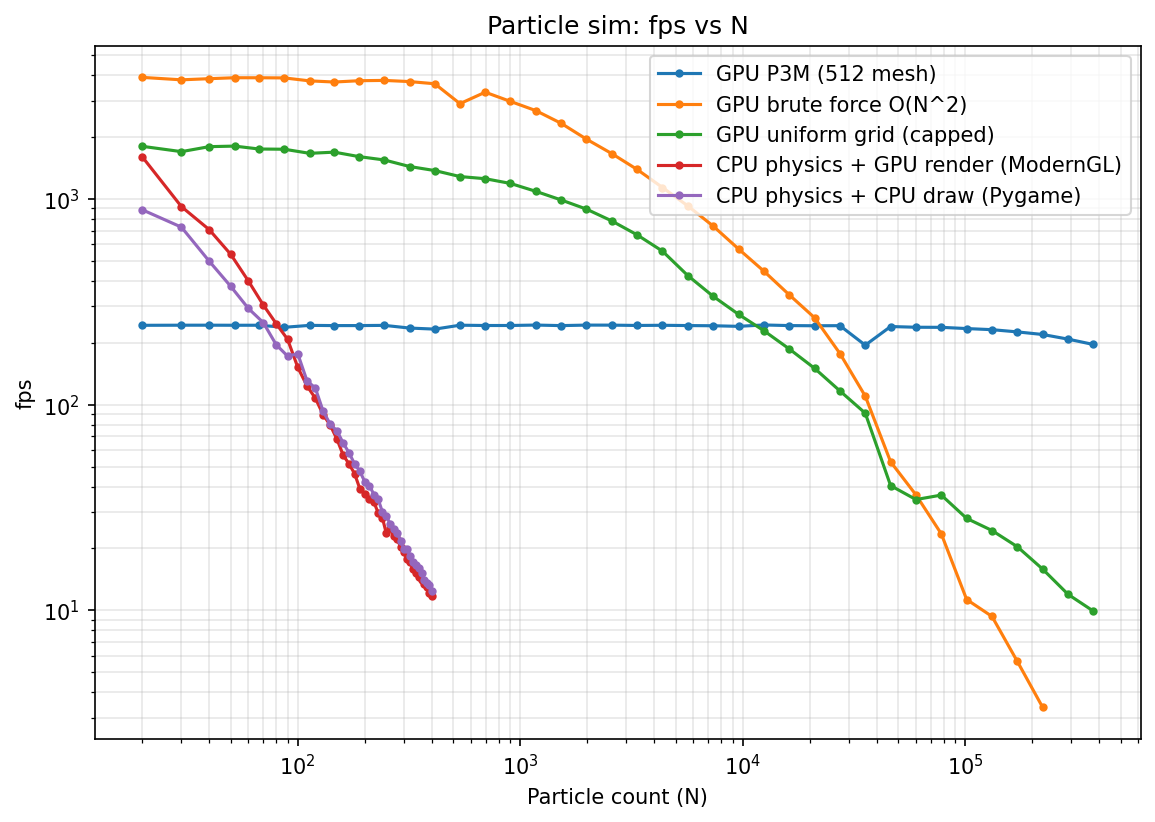
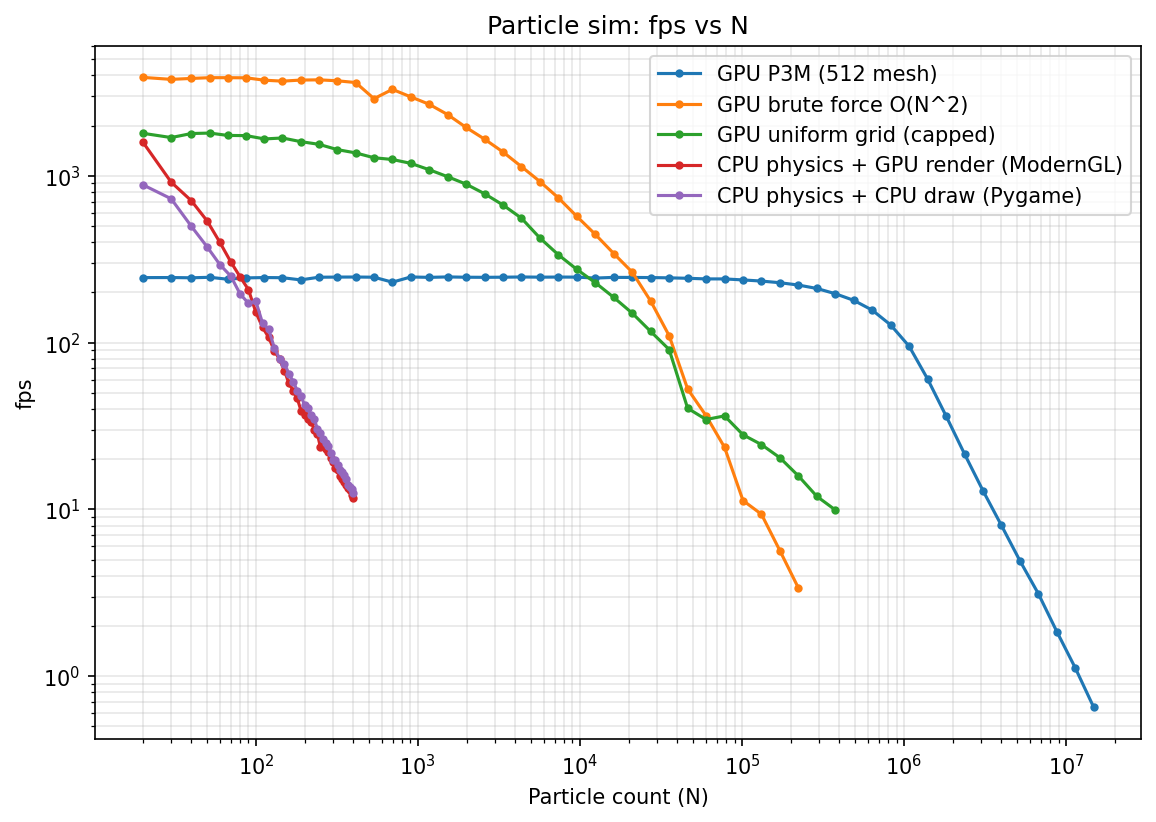
Extend P3M benchmark sweep to 14.8M particles
Buffers now size from the config end_n instead of a 1M cap, and the bench csv
is written after every sample point so a driver reset does not lose the run.
Adds --budget frame-budget lines to plot_bench.

diff --git a/src/Particles_Test_GPU_p3m.py b/src/Particles_Test_GPU_p3m.py
@@ -115,17 +115,24 @@ def main():
           f"P3M mesh={args.mesh_res}x{args.mesh_res}")
 
     n0 = 2 * N_PER_TYPE
-    capacity = n0 + EXTRA_CAPACITY
+    # A sweep must be able to reach end_n, so size the buffers from the config.
+    capacity = int(cfg["end_n"]) + 1 if bench else n0 + EXTRA_CAPACITY
     active_n = n0
     rng = np.random.default_rng(cfg["seed"] if bench else 1)
-    particles_cpu = np.zeros(capacity, dtype=PARTICLE_DTYPE)
-    particles_cpu["pos"][:n0] = rng.uniform(-0.3, 0.3, (n0, 2)).astype(np.float32)
-    particles_cpu["vel"][:n0] = rng.uniform(-0.1, 0.1, (n0, 2)).astype(np.float32)
-    particles_cpu["type"][:N_PER_TYPE] = 0
-    particles_cpu["type"][N_PER_TYPE:n0] = 1
+    seed_cpu = np.zeros(n0, dtype=PARTICLE_DTYPE)
+    seed_cpu["pos"] = rng.uniform(-0.3, 0.3, (n0, 2)).astype(np.float32)
+    seed_cpu["vel"] = rng.uniform(-0.1, 0.1, (n0, 2)).astype(np.float32)
+    seed_cpu["type"][:N_PER_TYPE] = 0
+    seed_cpu["type"][N_PER_TYPE:] = 1
 
-    particles_current = ctx.buffer(particles_cpu.tobytes())
-    particles_next = ctx.buffer(reserve=particles_cpu.nbytes)
+    # Reserve then partial-write, so a 20M sweep does not build a
+    # multi-hundred-MB throwaway CPU copy just to seed 4000 particles.
+    buffer_bytes = capacity * PARTICLE_DTYPE.itemsize
+    print(f"[GPU] capacity={capacity:,} particles "
+          f"({2 * buffer_bytes / 2**20:.0f} MB of ping-pong buffers)")
+    particles_current = ctx.buffer(reserve=buffer_bytes)
+    particles_current.write(seed_cpu.tobytes())
+    particles_next = ctx.buffer(reserve=buffer_bytes)
     solver = P3MForceSolver(
         ctx, capacity, args.mesh_res, WORLD_BOUNDS, SOFTENING,
         FORCE_FALLOFF, SAME_REPEL, OTHER_ATTRACT,
@@ -149,6 +156,7 @@ def main():
         active_n += count
 
     bench_rows = []
+    bench_out = args.out or str(cfg.get("out_csv", "gpu_p3m.csv"))
     bench_next_t = None
     bench_skip = 0
     acc_compute = acc_frame = 0.0
@@ -217,6 +225,9 @@ def main():
             })
             print(f"[BENCH][P3M] N={active_n} compute={mean_compute:.3f} ms "
                   f"frame={mean_frame:.3f} ms ({fps:.1f} FPS) over {acc_frames} frames")
+            # Rewrite after every point: at high N a frame can exceed the
+            # Windows TDR watchdog and the driver kills us mid-sweep.
+            write_bench_csv(bench_out, bench_rows)
             if mean_frame > float(cfg["abort_ms"]) or active_n >= int(cfg["end_n"]):
                 break
             previous = active_n
@@ -233,9 +244,8 @@ def main():
             last_print = now
 
     if bench:
-        output = args.out or str(cfg.get("out_csv", "gpu_p3m.csv"))
-        write_bench_csv(output, bench_rows)
-        print(f"[BENCH] wrote {output} ({len(bench_rows)} rows)")
+        write_bench_csv(bench_out, bench_rows)
+        print(f"[BENCH] wrote {bench_out} ({len(bench_rows)} rows)")
     glfw.destroy_window(window)
     glfw.terminate()
 

diff --git a/src/plot_bench.py b/src/plot_bench.py
@@ -32,6 +32,8 @@ def main():
     ap.add_argument("--logx", action="store_true", help="Log-scale the x axis")
     ap.add_argument("--logy", action="store_true", help="Log-scale the y axis")
     ap.add_argument("--out", default="", help="Save a png here instead of opening a window")
+    ap.add_argument("--budget", action="store_true",
+                    help="Draw 60/30 FPS frame-budget lines (ms y-axes only)")
     args = ap.parse_args()
 
     # Saving a graph should not require Tk or a visible desktop session.
@@ -55,6 +57,12 @@ def main():
 
     if not plotted:
         raise SystemExit(f"no csv had a '{args.y}' column")
+
+    if args.budget and args.y.endswith("_ms"):
+        for ms, name in ((1000 / 60, "60 FPS budget"), (1000 / 30, "30 FPS budget")):
+            plt.axhline(ms, color="gray", linestyle="--", linewidth=1, alpha=0.7)
+            plt.annotate(name, (0.01, ms), xycoords=("axes fraction", "data"),
+                         va="bottom", fontsize=8, color="gray")
 
     if args.logx:
         plt.xscale("log")

diff --git a/premade/Particles_6.0_3DWaves.py b/premade/Particles_6.0_3DWaves.py
@@ -327,7 +327,7 @@ def main():
         particles_cpu["vel"][i]  = rng.uniform(-0.1, 0.1, 2).astype(np.float32)
         particles_cpu["type"][i] = 1
 
-    # SSBO: particles (binding=0) — allocate full capacity
+    # SSBO: particles (binding=0) - allocate full capacity
     ssbo_particles = ctx.buffer(particles_cpu.tobytes())
     ssbo_particles.bind_to_storage_buffer(binding=0)
 
@@ -337,7 +337,7 @@ def main():
     ssbo_head = ctx.buffer(grid_head.tobytes())
     ssbo_head.bind_to_storage_buffer(binding=1)
 
-    # SSBO: next pointers (binding=2) — allocate full capacity (IMPORTANT)
+    # SSBO: next pointers (binding=2) - allocate full capacity (IMPORTANT)
     next_idx_cpu = np.full(CAPACITY, -1, dtype=np.int32)
     ssbo_next = ctx.buffer(next_idx_cpu.tobytes())
     ssbo_next.bind_to_storage_buffer(binding=2)

diff --git a/src/Particles_Test_GPU_grid.py b/src/Particles_Test_GPU_grid.py
@@ -360,7 +360,7 @@ def main():
         particles_cpu["vel"][i]  = rng.uniform(-0.1, 0.1, 2).astype(np.float32)
         particles_cpu["type"][i] = 1
 
-    # SSBO: particles (binding=0) — allocate full capacity
+    # SSBO: particles (binding=0) - allocate full capacity
     ssbo_particles = ctx.buffer(particles_cpu.tobytes())
     ssbo_particles.bind_to_storage_buffer(binding=0)
 
@@ -370,7 +370,7 @@ def main():
     ssbo_head = ctx.buffer(grid_head.tobytes())
     ssbo_head.bind_to_storage_buffer(binding=1)
 
-    # SSBO: next pointers (binding=2) — allocate full capacity
+    # SSBO: next pointers (binding=2) - allocate full capacity
     next_idx_cpu = np.full(CAPACITY, -1, dtype=np.int32)
     ssbo_next = ctx.buffer(next_idx_cpu.tobytes())
     ssbo_next.bind_to_storage_buffer(binding=2)

diff --git a/src/Particles_in_pygame.py b/src/Particles_in_pygame.py
@@ -260,7 +260,7 @@ def soft_circle_surface(radius, color):
             if r2 > radius*radius:
                 continue
             r = math.sqrt(r2) / max(1e-6, radius)
-            # similar “soft edge” feel
+            # similar "soft edge" feel
             a = int(255 * (1.0 - min(1.0, max(0.0, (r - 0.7) / 0.3))))
             s.set_at((px, py), (color[0], color[1], color[2], a))
 
@@ -470,7 +470,7 @@ def main():
         screen.fill(BG)
 
         if ALPHA_SOFT_EDGE:
-            # blit precomputed “soft sprites”
+            # blit precomputed "soft sprites"
             ra = sprite_a.get_width() // 2
             rb = sprite_b.get_width() // 2
             for i in range(x.shape[0]):

diff --git a/src/Particles_Test_GPU_bruteforce.py b/src/Particles_Test_GPU_bruteforce.py
@@ -252,7 +252,7 @@ def main():
         particles_cpu["vel"][i]  = rng.uniform(-0.1, 0.1, 2).astype(np.float32)
         particles_cpu["type"][i] = 1
 
-    # SSBO: particles (binding=0) — allocate full capacity
+    # SSBO: particles (binding=0) - allocate full capacity
     ssbo_particles = ctx.buffer(particles_cpu.tobytes())
     ssbo_particles_next = ctx.buffer(reserve=particles_cpu.nbytes)
     ssbo_particles.bind_to_storage_buffer(binding=0)

diff --git a/premade/Particles_O(N^2).py b/premade/Particles_O(N^2).py
@@ -214,7 +214,7 @@ def main():
         particles_cpu["vel"][i]  = rng.uniform(-0.1, 0.1, 2).astype(np.float32)
         particles_cpu["type"][i] = 1
 
-    # SSBO: particles (binding=0) — allocate full capacity
+    # SSBO: particles (binding=0) - allocate full capacity
     ssbo_particles = ctx.buffer(particles_cpu.tobytes())
     ssbo_particles.bind_to_storage_buffer(binding=0)
 

diff --git a/README.md b/README.md
@@ -6,19 +6,20 @@ Real-time GPU particle simulation built with **ModernGL + GLFW** where all physi
 
 ## Benchmarking
 
-Every engine takes `--bench` and sweeps N until a frame crosses `abort_ms`, so
-the fast and slow engines share one config:
+Every engine takes `--bench` and sweeps N until a frame crosses `abort_ms`. The
+slower engines share one config; P3M gets its own because it runs far enough that
+`bench_config_gpu.json` would cut it short:
 
 ```bash
 cd src
-python Particles_Test_GPU_p3m.py       --bench --config bench_config_gpu.json --out gpu_p3m.csv --mesh-res 512
+python Particles_Test_GPU_p3m.py       --bench --config bench_config_p3m_sweep.json --out gpu_p3m_sweep.csv --mesh-res 512
 python Particles_Test_GPU_bruteforce.py --bench --config bench_config_gpu.json --out gpu_bruteforce.csv
 python Particles_Test_GPU_grid.py       --bench --config bench_config_gpu.json --out gpu_grid.csv
 python Particles_Test_CPU.py            --bench --config bench_config.json     --out cpu_moderngl.csv
 python Particles_in_pygame.py           --bench --config bench_config.json     --out cpu_pygame.csv
 
 python plot_bench.py --y fps --logx --logy --out ../assets/bench_gpu_vs_cpu.png \
-  --csv "GPU P3M (512 mesh)=gpu_p3m.csv" \
+  --csv "GPU P3M (512 mesh)=gpu_p3m_sweep.csv" \
   --csv "GPU brute force O(N^2)=gpu_bruteforce.csv" \
   --csv "GPU uniform grid (capped)=gpu_grid.csv" \
   --csv "CPU physics + GPU render (ModernGL)=cpu_moderngl.csv" \
@@ -37,7 +38,7 @@ Run on an RTX 5060, driver 591.59, GL 4.3, 900x700 window. Both axes are log.
 
 | Engine | fps at N=400 | N at 60 fps | Largest N measured |
 |---|---|---|---|
-| GPU, P3M 512 mesh | ~233 | >377,000 | 377,059 @ 196 fps |
+| GPU, P3M 512 mesh | ~247 | ~1,400,000 | 14,846,156 @ 0.65 fps |
 | GPU, brute force O(N²) | 3621 | ~44,000 | 223,113 @ 3.4 fps |
 | GPU, uniform grid (capped) | 1380 | ~42,100 | 377,059 @ 9.9 fps |
 | CPU physics + GPU render | 11.7 | ~157 | 400 @ 11.7 fps |
@@ -50,26 +51,13 @@ particles are added.
 
 At N=400, which is about all the CPU version can handle, brute force on the GPU
 runs 309x faster. At the other end, P3M holds 377,000 particles at 196 fps while
-the capped grid manages 10 fps.
+the capped grid manages 10 fps. P3M stays above 60 fps to about 1.4 million
+particles and was swept to 14.8 million at 0.65 fps, where a frame takes 1.5 s;
+the sweep stops there to stay under the 2 s Windows driver watchdog, not because
+the GPU ran out of memory (it peaked near 2 GB of 8 GB).
 
 The brute force kernel does roughly 170 billion pair interactions per second. At
 N=223,113 that is 5x10^10 pairs in 267 ms.
-
-Two things here I did not expect going in.
-
-The grid does not beat brute force until about 78,000 particles. Below that the
-naive all pairs loop is faster, because every thread in a warp reads the same
-particle j and the L1 broadcasts it for free. The grid pays for scattered cell
-lookups and a linked list walk where every load waits on the one before it.
-`GRID_RES` is 256 while `NEIGHBOR_RADIUS` is 0.18, so each particle scans
-49x49 = 2401 cells and nearly all of them are empty. Sizing cells to the radius
-is the fix.
-
-Past about 46,000 the grid curve flattens partly because it stops doing all the
-work. `MAX_NEIGHBORS` is 2056 and it starts cutting the neighbor list short. You
-can see it as a dip in the data: N=78,119 finishes in 26.1 ms while N=60,092
-takes 28.3 ms, so 30% more particles ran faster. Brute force computes every pair
-the whole way, so its curve is honest N².
 
 ## P3M: Speed vs Accuracy
 
@@ -112,8 +100,8 @@ Particle-by-particle trajectories eventually separate because this system is
 chaotic. Starting both solvers from the same 2,048 particles, the 512² mesh had
 0.11% of world-width position RMSE after 30 steps, 1.97% after 100, and 4.34%
 after 300. A coarse 32×32 occupancy comparison was 1.12%, 25.1%, and 31.4% at
-those checkpoints. This separates “the exact same particle trajectory” from
-“the same large-scale visual distribution.” Raw results are in
+those checkpoints. This separates "the exact same particle trajectory" from
+"the same large-scale visual distribution." Raw results are in
 `p3m_accuracy.csv`, `p3m_speed.csv`, and `p3m_drift.csv`.
 
 ¹ Error magnitude divided by the reference RMS force magnitude.
